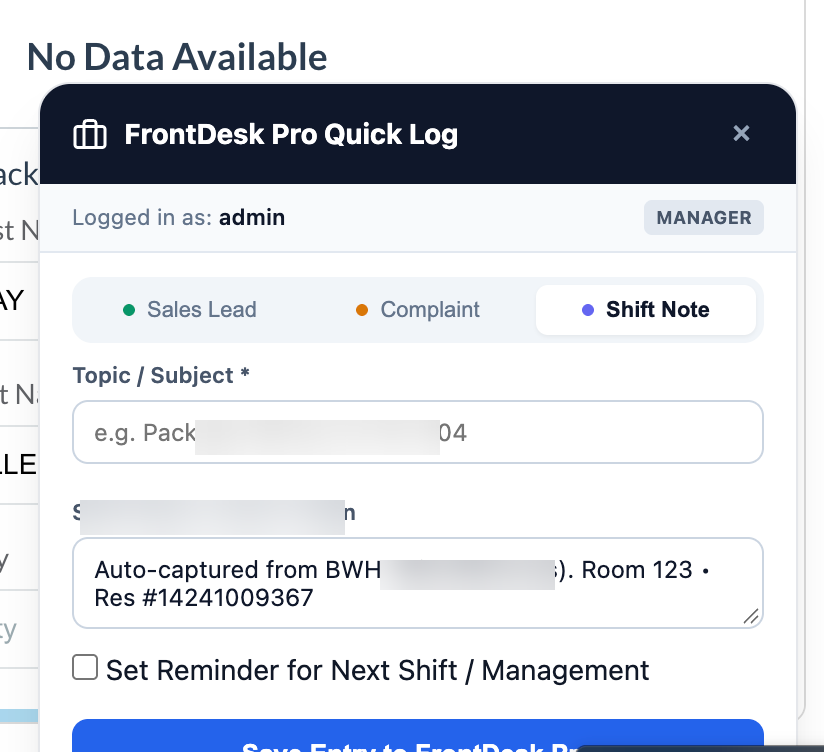
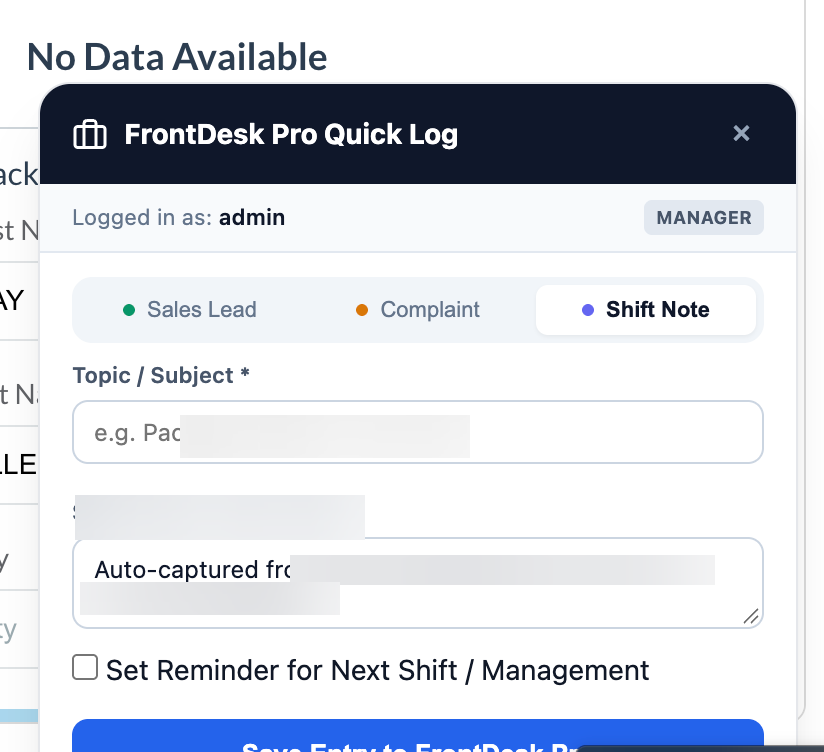
fix(guide): thoroughly blur reservation number, guest names and redact sensitive details

diff --git a/src/components/CashHandlingGuide.tsx b/src/components/CashHandlingGuide.tsx
@@ -618,9 +618,9 @@ export function CashHandlingGuide() {
                   <li>Click either <strong>+ Complaint Log</strong> or <strong>+ Misc Log</strong> in the top header.</li>
                   <li>The extension automatically extracts:
                     <ul className="pl-6 list-disc list-inside text-xs mt-1 text-indigo-800 dark:text-indigo-300">
-                      <li><strong>Guest Full Name</strong> (e.g. <em>DAVID KEVIN CHAPMAN</em>, <em>JAMES CALVIN ANDERSON</em>)</li>
-                      <li><strong>Room Number</strong> (e.g. <em>Room 208</em>)</li>
-                      <li><strong>Reservation Folio Number</strong> (e.g. <em>Res #14241009514</em>)</li>
+                      <li><strong>Guest Full Name</strong></li>
+                      <li><strong>Room Number</strong></li>
+                      <li><strong>Reservation Folio Number</strong></li>
                     </ul>
                   </li>
                   <li>The quick-log form opens pre-filled. Enter your observations and click <strong>Save Shift Log</strong>. No window switching or copy-pasting required!</li>
